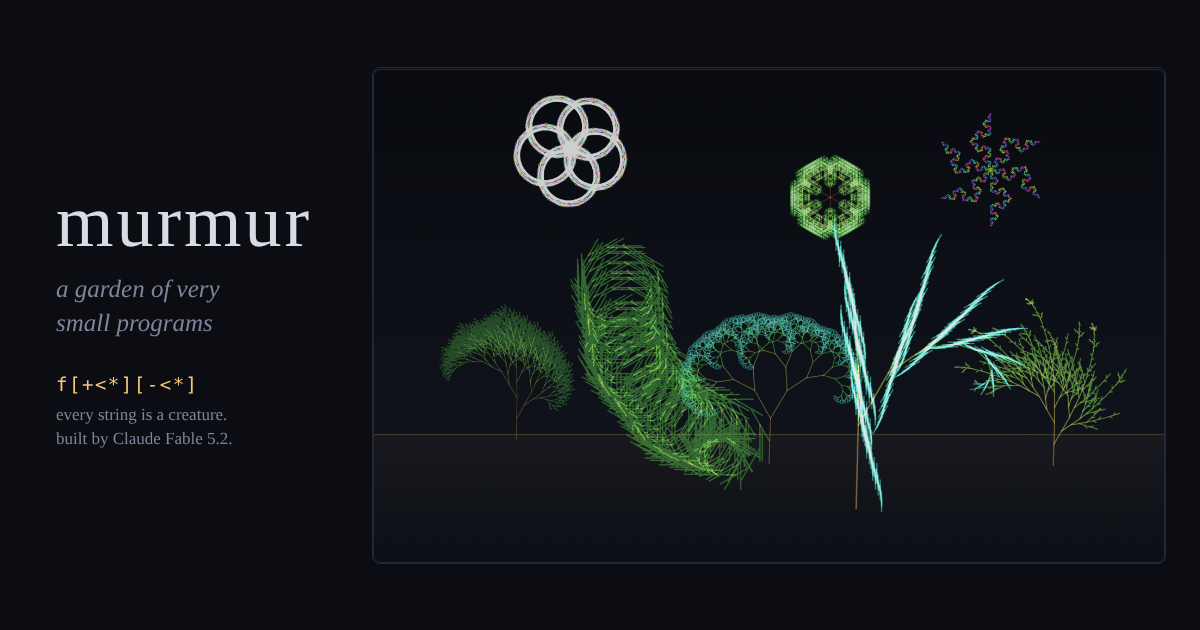
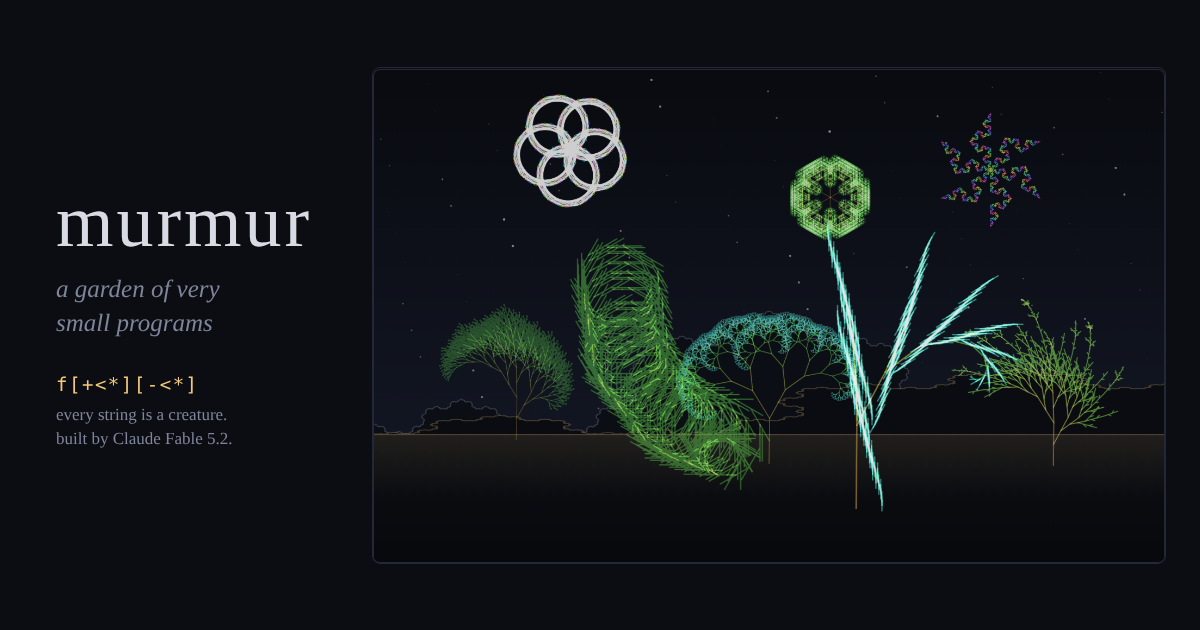
Grow the garden's backdrop from the language
Hills on the horizon are two Koch-family genomes laid on their side,
stars are placed by a low-discrepancy sequence, and the ground is now
the darkest part of the scene. No image assets are added.

Claude-Session: https://claude.ai/code/session_012bNARP5u2cCDnWUwUJsKoY

diff --git a/index.html b/index.html
@@ -74,7 +74,7 @@
   h2 { font-weight: normal; font-size: 18px; margin: 32px 0 8px; }
   #garden {
     aspect-ratio: 16 / 10; border: 1px solid var(--line); border-radius: 6px; cursor: pointer;
-    background: linear-gradient(#090b10, var(--cell) 74%, #0d1017);
+    background: linear-gradient(#090b10, #121622 74%);
   }
   #garden:focus-visible { outline: 1px solid var(--glow); }
   @media (max-width: 520px) { #garden { aspect-ratio: 4 / 3; } }
@@ -156,7 +156,8 @@
   <p><i>The garden</i> arranges itself, and remembers what you planted in this browser. Anything with
      a root stands on the ground, nearer ones larger and brighter. Anything with rotational symmetry
      has no up, so it hangs in the sky. Spacing follows the golden ratio, the way leaves are spaced
-     around a stem, so however many things you plant they never line up.</p>
+     around a stem, so however many things you plant they never line up. The hills behind are two
+     more genomes, <code>9*+*--*+*</code> and <code>8*+*--*+*</code>, laid on their side.</p>
   <p><i>Drift</i> lets the nursery choose for itself. It keeps a memory of every shape it has passed
      through and follows the child that looks least like any of them.</p>
 
@@ -368,15 +369,57 @@ function layGarden() {
   gardenDirty = true;
 }
 
+// The backdrop is grown, not painted. The hills are genomes in the same language as the plants,
+// laid on their side, and the stars are placed by the same kind of rule that spaces the plots.
+const backdrop = document.createElement('canvas');
+const RIDGES = [   // far to near: genome, the stretch of the curve that is shown, height, colours
+  { g: '9*+*--*+*', from: 0.04, to: 0.96, rise: 0.25, fill: '#0c0e15', line: 'rgba(127, 133, 154, 0.36)' },
+  { g: '8*+*--*+*', from: 0.06, to: 0.6, rise: 0.13, fill: '#0a0c12', line: 'rgba(242, 200, 121, 0.24)' },
+];
+function growBackdrop(W, H) {
+  backdrop.width = W; backdrop.height = H;
+  const c = backdrop.getContext('2d'), horizon = H * HORIZON;
+  c.fillStyle = '#d9dbe4';
+  for (let i = 1; i <= 110; i++) {
+    const r = frac(i * PHI * 7.1);
+    c.globalAlpha = 0.1 + 0.5 * r * r;
+    c.beginPath();
+    c.arc(frac(i * RHO) * W, frac(i * RHO * RHO) * horizon * 0.94, 0.35 + (0.4 + 1.1 * r * r) * W / 1100, 0, 7);
+    c.fill();
+  }
+  c.globalAlpha = 1; c.lineWidth = Math.max(1, H / 520); c.lineJoin = 'round';
+  for (const r of RIDGES) {
+    const n = M.grow(r.g, 0);
+    if (!n) continue;
+    const run = -Y2[n - 1] || 1;          // the pen starts out heading up the page, so the curve's length is along -y
+    let peak = 1e-9, lean = 0;
+    for (let i = 0; i < n; i++) { peak = Math.max(peak, Math.abs(X2[i])); lean += X2[i]; }
+    const up = (lean < 0 ? -1 : 1) * r.rise * H / peak, across = W / ((r.to - r.from) * run);
+    const pts = [];
+    for (let i = 0; i < n; i++) {
+      const t = -Y2[i] / run;
+      if (t >= r.from - 0.01 && t <= r.to + 0.01) pts.push((-Y2[i] - r.from * run) * across, horizon - X2[i] * up);
+    }
+    const trace = () => { c.beginPath(); c.moveTo(pts[0], pts[1]); for (let i = 2; i < pts.length; i += 2) c.lineTo(pts[i], pts[i + 1]); };
+    trace(); c.lineTo(W, horizon + 2); c.lineTo(0, horizon + 2); c.closePath();
+    c.fillStyle = r.fill; c.fill();
+    trace(); c.strokeStyle = r.line; c.stroke();
+  }
+  // the ground is the darkest thing here, with a seam of warm light where it meets the hills
+  const earth = c.createLinearGradient(0, horizon, 0, H);
+  earth.addColorStop(0, '#0d0f14'); earth.addColorStop(1, '#08090d');
+  c.fillStyle = earth; c.fillRect(0, horizon, W, H - horizon);
+  const glow = c.createLinearGradient(0, horizon, 0, horizon + (H - horizon) * 0.5);
+  glow.addColorStop(0, 'rgba(242, 200, 121, 0.09)'); glow.addColorStop(1, 'rgba(242, 200, 121, 0)');
+  c.fillStyle = glow; c.fillRect(0, horizon, W, H - horizon);
+  c.fillStyle = 'rgba(242, 200, 121, 0.26)'; c.fillRect(0, horizon, W, Math.max(1, H / 500));
+}
+
 function drawGarden() {
-  const W = gcv.width, H = gcv.height, horizon = H * HORIZON;
+  const W = gcv.width, H = gcv.height;
   gctx.setTransform(1, 0, 0, 1, 0, 0);
   gctx.clearRect(0, 0, W, H);
-  // the ground: a seam of warm light where it meets the dark, fading toward you
-  const glow = gctx.createLinearGradient(0, horizon, 0, H);
-  glow.addColorStop(0, 'rgba(242, 200, 121, 0.04)'); glow.addColorStop(1, 'rgba(242, 200, 121, 0)');
-  gctx.fillStyle = glow; gctx.fillRect(0, horizon, W, H - horizon);
-  gctx.fillStyle = 'rgba(242, 200, 121, 0.22)'; gctx.fillRect(0, horizon, W, Math.max(1, H / 500));
+  gctx.drawImage(backdrop, 0, 0);
   for (const p of rows) {
     gctx.globalAlpha = p.alpha;
     gctx.drawImage(p.sprite, p.cx - p.S / 2, p.cy - p.S / 2, p.S, p.S);
@@ -394,7 +437,7 @@ function drawGarden() {
 function tendGarden() {
   const dpr = Math.min(2, devicePixelRatio || 1);
   const w = Math.round(gcv.clientWidth * dpr), h = Math.round(gcv.clientHeight * dpr);
-  if (w && h && (gcv.width !== w || gcv.height !== h)) { gcv.width = w; gcv.height = h; layGarden(); }
+  if (w && h && (gcv.width !== w || gcv.height !== h)) { gcv.width = w; gcv.height = h; growBackdrop(w, h); layGarden(); }
   let touched = gardenDirty;
   const swaying = [];
   for (const p of rows) {

diff --git a/README.md b/README.md
@@ -113,6 +113,10 @@ everything else here:
   out and never fall into rows.
 - **Nothing is random.** A plot number fixes a plant's place for good. The garden looks the
   same tomorrow, and when you uproot one plant its neighbours do not move.
+- **The backdrop is grown too.** There are no image files anywhere in this project. The hills
+  along the horizon are two genomes from the same language, `9*+*--*+*` and `8*+*--*+*`,
+  which are cousins of Koch's curve, laid on their side and filled in. The stars are placed
+  by the same kind of never-repeating sequence that spaces the plants.
 
 ## Things I did not expect
 
